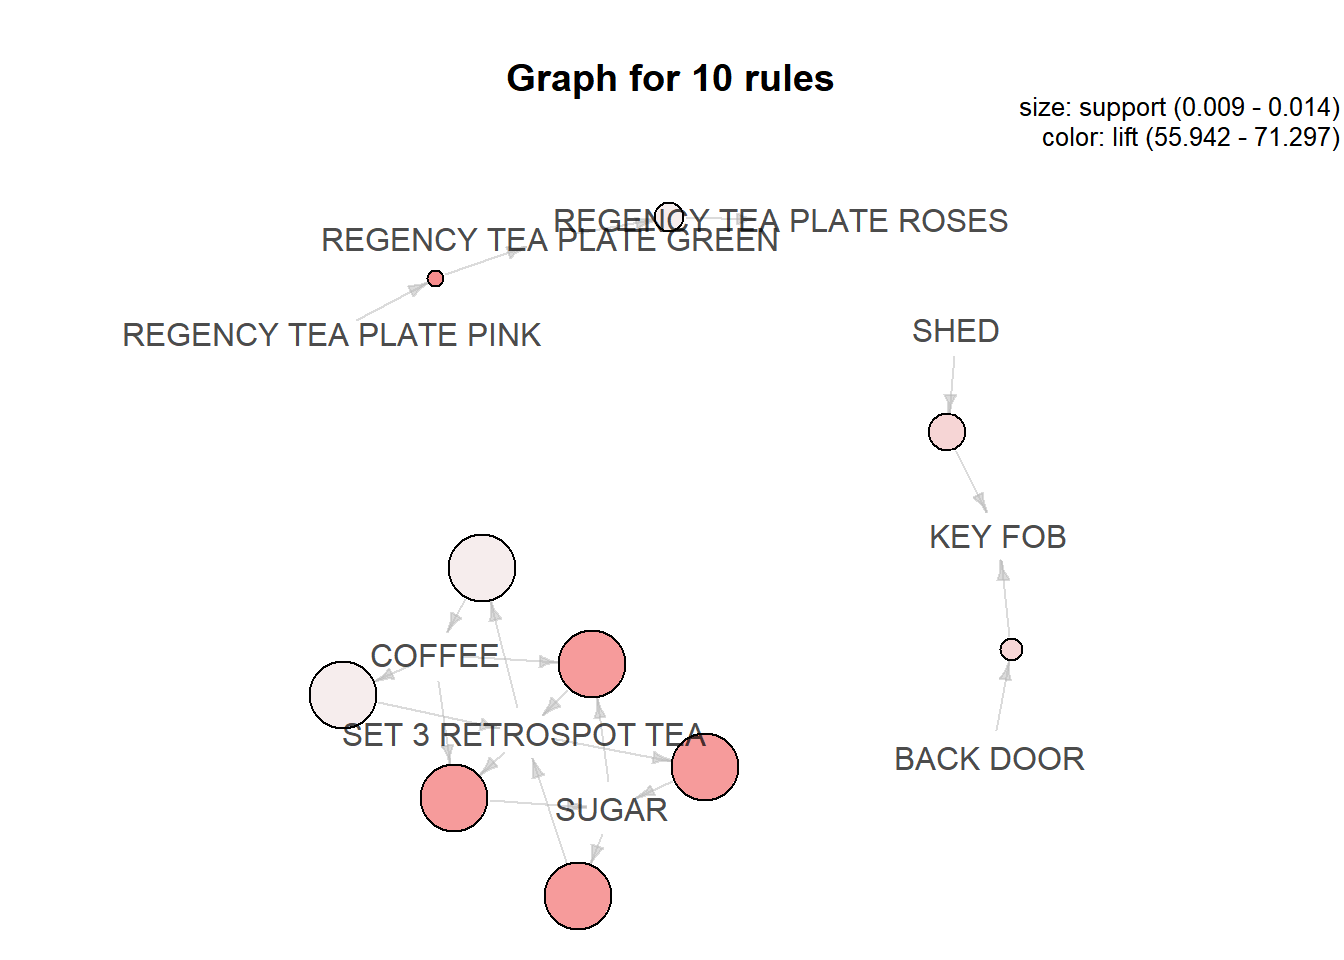
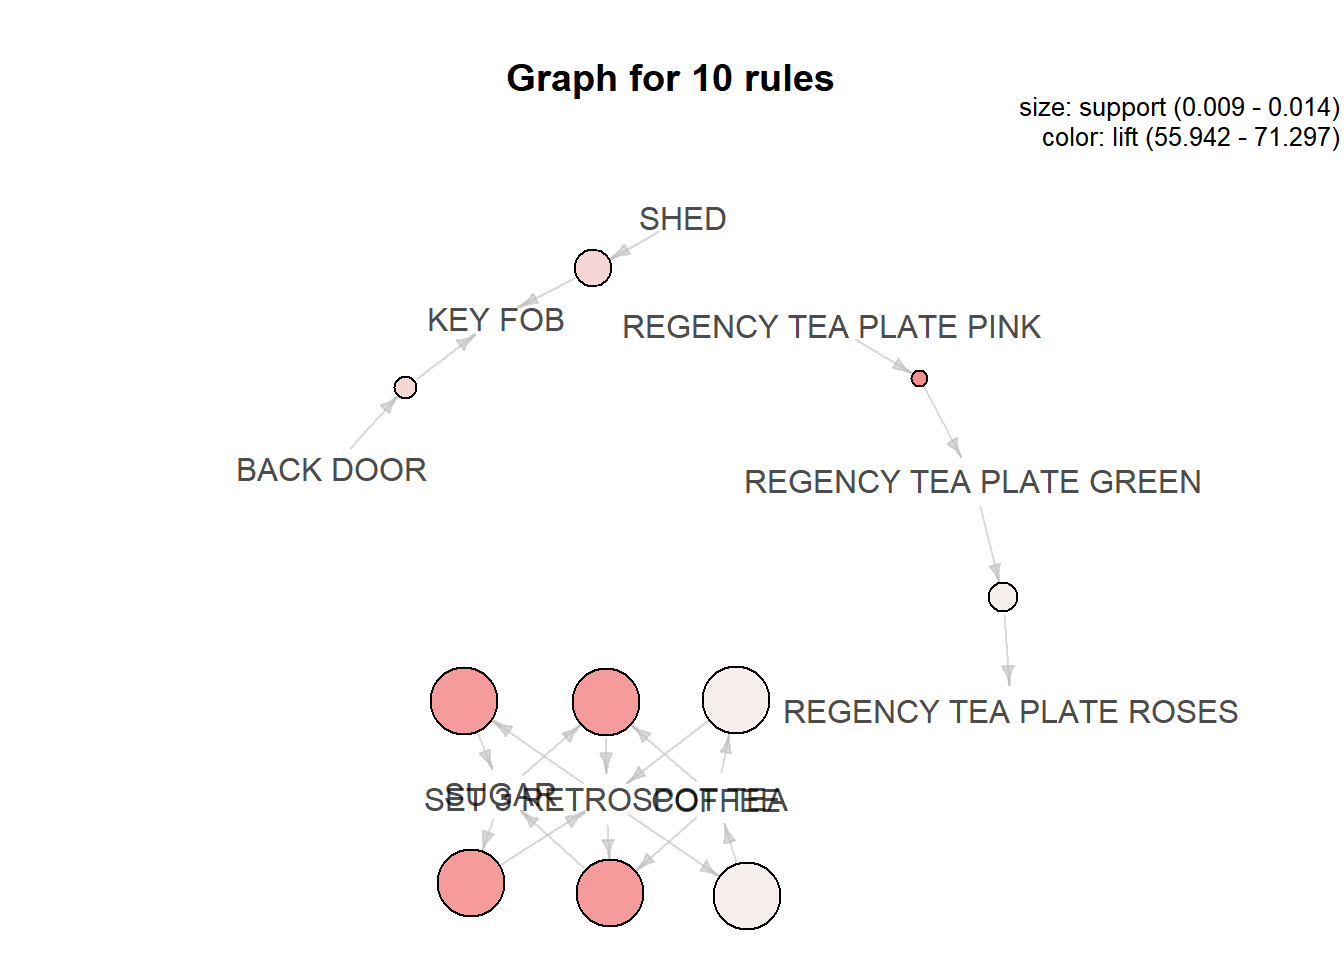
fix image path

diff --git a/content/post/2019-05-02-mba.html b/content/post/2019-05-02-mba.html
@@ -13,10 +13,10 @@ tags:
 
 
 
-<p><img src="J:/R/blog_research/mba/img/mba_meme.jpg" width="60%" style="display: block; margin: auto;" /></p>
+<p><img src="/img/mba_meme.jpg" width="80%" style="display: block; margin: auto;" /></p>
 <div id="introduction" class="section level2">
 <h2>Introduction</h2>
-<p><img src="img/mba_intro.png" width="100%" style="display: block; margin: auto;" /></p>
+<p><img src="/img/mba_intro.png" width="80%" style="display: block; margin: auto;" /></p>
 <p>Ever wondered why items are displayed in a particular way in retail/online
 stores. Why certain items are suggested to you based on what you have added to
 the cart? Blame it on market basket analysis or association rule mining.</p>
@@ -32,7 +32,7 @@ the cart? Blame it on market basket analysis or association rule mining.</p>
 </div>
 <div id="what" class="section level2">
 <h2>What?</h2>
-<p><img src="img/mba_what.png" width="100%" style="display: block; margin: auto;" /></p>
+<p><img src="/img/mba_what.png" width="80%" style="display: block; margin: auto;" /></p>
 <p>Market basket analysis uses association rule mining under the hood to identify
 products frequently bought together. Before we get into the nitty gritty of
 market basket analysis, let us get a basic understanding of association rule
@@ -47,7 +47,7 @@ and the set is the transaction. In short, market basket analysis</p>
 </div>
 <div id="why" class="section level2">
 <h2>Why ?</h2>
-<p><img src="img/mba_why.png" width="100%" style="display: block; margin: auto;" /></p>
+<p><img src="/img/mba_why.png" width="80%" style="display: block; margin: auto;" /></p>
 <p>Market basket analysis creates actionable insights for:</p>
 <ul>
 <li>designing store layout</li>
@@ -59,7 +59,7 @@ and the set is the transaction. In short, market basket analysis</p>
 </div>
 <div id="advantages" class="section level2">
 <h2>Advantages</h2>
-<p><img src="img/mba_advantages.png" width="100%" style="display: block; margin: auto;" /></p>
+<p><img src="/img/mba_advantages.png" width="80%" style="display: block; margin: auto;" /></p>
 <p>Market basket analysisis is <strong>cost effective</strong> as data required is readily
 available through electronic point of sale systems. It generates
 <strong>actionable insights</strong> for product placement, cross/up selling strategies,
@@ -68,7 +68,7 @@ inventory control etc.</p>
 </div>
 <div id="use-cases" class="section level2">
 <h2>Use Cases</h2>
-<p><img src="img/mba_use_cases.png" width="100%" style="display: block; margin: auto;" /></p>
+<p><img src="/img/mba_use_cases.png" width="80%" style="display: block; margin: auto;" /></p>
 <p>Association rule mining has applications in several industries including
 retail, telecommunications, banking, insurance, manufacturing and medical.
 Let us look at its applications in more detail in the following industries:</p>
@@ -108,12 +108,12 @@ providers. The more services a customer uses from a particular operator, the
 harder it gets for him/her to switch to another operator. Market basket
 analysis is used to bundle mobile, landline, TV and internet services to
 customers to increase stickiness and reduce churn.</p>
-<p><a href="https://www.rsquaredacademy.com/" target="_blank"><img src="img/ad.png" width="100%" alt="course ad" style="text-decoration: none;"></a></p>
+<p><a href="https://www.rsquaredacademy.com/" target="_blank"><img src="/img/ad.png" width="100%" alt="course ad" style="text-decoration: none;"></a></p>
 </div>
 </div>
 <div id="simple-example" class="section level2">
 <h2>Simple Example</h2>
-<p><img src="img/mba_items_description.png" width="100%" style="display: block; margin: auto;" /></p>
+<p><img src="/img/mba_items_description.png" width="80%" style="display: block; margin: auto;" /></p>
 <p>Before we move on to the case study, let us use a simple example to understand
 the important terminologies that we will come across in the rest of the
 tutorial. In the example, the transactions include the following products:</p>
@@ -131,7 +131,7 @@ tutorial. In the example, the transactions include the following products:</p>
 </div>
 <div id="steps" class="section level2">
 <h2>Steps</h2>
-<p><img src="img/mba_steps.png" width="100%" style="display: block; margin: auto;" /></p>
+<p><img src="/img/mba_steps.png" width="80%" style="display: block; margin: auto;" /></p>
 <p>The two important steps in market basket analysis are:</p>
 <ul>
 <li>frequent itemset generation</li>
@@ -141,21 +141,21 @@ tutorial. In the example, the transactions include the following products:</p>
 </div>
 <div id="itemset" class="section level2">
 <h2>Itemset</h2>
-<p><img src="img/mba_itemset.png" width="100%" style="display: block; margin: auto;" /></p>
+<p><img src="/img/mba_itemset.png" width="80%" style="display: block; margin: auto;" /></p>
 <p>Itemset is the collection of items purchased by a customer. In our example,
 mobile phone and screen guard are a frequent intemset. They are present in
 3 out of 5 transactions.</p>
 </div>
 <div id="antecedent-consequent" class="section level2">
 <h2>Antecedent &amp; Consequent</h2>
-<p><img src="img/mba_antecedent_consequent.png" width="100%" style="display: block; margin: auto;" /></p>
+<p><img src="/img/mba_antecedent_consequent.png" width="80%" style="display: block; margin: auto;" /></p>
 <p>Antecedent is the items of the left hand side of the rule and consequent is
 the right hand side of the rule. In our example, mobile phone is the antecedent
 and screen guard is the consequent.</p>
 </div>
 <div id="support" class="section level2">
 <h2>Support</h2>
-<p><img src="img/mba_support.png" width="100%" style="display: block; margin: auto;" /></p>
+<p><img src="/img/mba_support.png" width="80%" style="display: block; margin: auto;" /></p>
 <p>Support is the probability of the antecedent event occuring. It is the relative
 frequency of the itemset. If it is less than 50% then the association is
 considered less fruitful. In our example, support is the relative frequency of
@@ -163,7 +163,7 @@ transactions that include both mobile phone and screen guard.</p>
 </div>
 <div id="confidence" class="section level2">
 <h2>Confidence</h2>
-<p><img src="img/mba_confidence.png" width="100%" style="display: block; margin: auto;" /></p>
+<p><img src="/img/mba_confidence.png" width="80%" style="display: block; margin: auto;" /></p>
 <p>Confidence is the probability the consequent will co-occur with the antecedent.
 It expresses the operational efficiency of the rule. In our example, it is the
 probability that a customer will purchase screen guard provided that he has
@@ -171,7 +171,7 @@ already bought the mobile phone.</p>
 </div>
 <div id="lift" class="section level2">
 <h2>Lift</h2>
-<p><img src="img/mba_lift.png" width="100%" style="display: block; margin: auto;" /></p>
+<p><img src="/img/mba_lift.png" width="80%" style="display: block; margin: auto;" /></p>
 <p>The lift ratio calculates the efficiency of the rule in finding consequences,
 compared to a random selection of transactions. Generally, a Lift ratio of
 greater than one suggests some applicability of the rule.To compute the lift
@@ -190,7 +190,7 @@ phone and screen guard (i.e., mobile phone and screen guard occur together
 less often than random)</li>
 </ul>
 <p>
-<a href="https://www.youtube.com/user/rsquaredin/" target="_blank"><img src="img/ad_youtube.png" width="100%" alt="youtube ad" style="text-decoration: none;"></a>
+<a href="https://www.youtube.com/user/rsquaredin/" target="_blank"><img src="/img/ad_youtube.png" width="100%" alt="youtube ad" style="text-decoration: none;"></a>
 </p>
 </div>
 </div>
@@ -241,7 +241,7 @@ library(ggplot2)</code></pre>
 </div>
 <div id="preprocessing" class="section level2">
 <h2>Preprocessing</h2>
-<p><img src="J:/R/blog_research/mba/img/mba_pre_process.png" width="100%" style="display: block; margin: auto;" /></p>
+<p><img src="/img/mba_pre_process.png" width="80%" style="display: block; margin: auto;" /></p>
 <p>As shown above, the data set has one row per item. We will use
 <code>mbar_prep_data()</code> from the mbar package to reshape the data so that there is
 one row per transaction with items across columns exclusing the column names.</p>
@@ -486,7 +486,7 @@ absolute/relative frequency of the items.</p>
 plotted.</p>
 <pre class="r"><code>itemFrequencyPlot(basket_data, topN = 10, type = &#39;relative&#39;)</code></pre>
 <p><img src="/post/2019-05-02-mba_files/figure-html/plot_freq_relative-1.png" width="672" style="display: block; margin: auto;" /></p>
-<p><a href="https://apps.rsquaredacademy.com/" target="_blank"><img src="img/ad_apps.png" width="100%" alt="apps ad" style="text-decoration: none;"></a></p>
+<p><a href="https://apps.rsquaredacademy.com/" target="_blank"><img src="/img/ad_apps.png" width="100%" alt="apps ad" style="text-decoration: none;"></a></p>
 </div>
 <div id="generate-rules" class="section level2">
 <h2>Generate Rules</h2>
@@ -531,16 +531,16 @@ time and the process will eventually run out of memory.</p>
 ## Absolute minimum support count: 233 
 ## 
 ## set item appearances ...[0 item(s)] done [0.00s].
-## set transactions ...[10085 item(s), 25901 transaction(s)] done [1.39s].
+## set transactions ...[10085 item(s), 25901 transaction(s)] done [0.90s].
 ## sorting and recoding items ... [508 item(s)] done [0.03s].
-## creating transaction tree ... done [0.06s].
+## creating transaction tree ... done [0.05s].
 ## checking subsets of size 1 2 3 4</code></pre>
 <pre><code>## Warning in apriori(basket_data, parameter = list(supp = 0.009, conf =
 ## 0.8, : Mining stopped (maxlen reached). Only patterns up to a length of 4
 ## returned!</code></pre>
-<pre><code>##  done [0.12s].
-## writing ... [22 rule(s)] done [0.00s].
-## creating S4 object  ... done [0.03s].</code></pre>
+<pre><code>##  done [0.06s].
+## writing ... [22 rule(s)] done [0.02s].
+## creating S4 object  ... done [0.02s].</code></pre>
 <p>Change the values of <code>supp</code>, <code>conf</code> and <code>maxlen</code>, and observe how the rules
 generated change.</p>
 </div>
@@ -614,20 +614,20 @@ equally or even less predictive than a more general rule. A rule is more
 general if it has the same RHS but one or more items removed from the LHS.</p>
 <div id="example-1" class="section level4">
 <h4>Example 1</h4>
-<p><img src="J:/R/blog_research/mba/img/mba_redundant_rule_1.png" width="100%" style="display: block; margin: auto;" /></p>
+<p><img src="/img/mba_redundant_rule_1.png" width="80%" style="display: block; margin: auto;" /></p>
 <p>In the above example, the first rule has the same support, condifence and lift
 as the next two rules. The second item in the left hand side of the rule is not
 adding any value and as such makes the rule redundant.</p>
 </div>
 <div id="example-2" class="section level4">
 <h4>Example 2</h4>
-<p><img src="J:/R/blog_research/mba/img/mba_redundant_rule_2.png" width="100%" style="display: block; margin: auto;" /></p>
+<p><img src="/img/mba_redundant_rule_2.png" width="80%" style="display: block; margin: auto;" /></p>
 <p>In the above example, the first two rules have the same support, condifence and
 lift. The third rule differs only with respect to lift.</p>
 </div>
 <div id="example-3" class="section level4">
 <h4>Example 3</h4>
-<p><img src="J:/R/blog_research/mba/img/mba_redundant_rule_3.png" width="100%" style="display: block; margin: auto;" /></p>
+<p><img src="/img/mba_redundant_rule_3.png" width="80%" style="display: block; margin: auto;" /></p>
 <p>In the above example, the first and third rule have the same support,
 condifence and lift. The second rule is different with respect to confidence
 and lift.</p>
@@ -723,10 +723,10 @@ sugar can appear on the left hand side of the rule by default.</p>
 ## Absolute minimum support count: 233 
 ## 
 ## set item appearances ...[1 item(s)] done [0.00s].
-## set transactions ...[10085 item(s), 25901 transaction(s)] done [1.24s].
+## set transactions ...[10085 item(s), 25901 transaction(s)] done [1.41s].
 ## sorting and recoding items ... [508 item(s)] done [0.03s].
 ## creating transaction tree ... done [0.06s].
-## checking subsets of size 1 2 3 4 done [0.11s].
+## checking subsets of size 1 2 3 4 done [0.09s].
 ## writing ... [3 rule(s)] done [0.00s].
 ## creating S4 object  ... done [0.03s].</code></pre>
 <pre class="r"><code>rules_sugar &lt;- sort(sugar_rules, by = &quot;confidence&quot;, decreasing = TRUE)
@@ -775,12 +775,12 @@ hand side of the rule by default.</p>
 ## Absolute minimum support count: 233 
 ## 
 ## set item appearances ...[1 item(s)] done [0.00s].
-## set transactions ...[10085 item(s), 25901 transaction(s)] done [1.19s].
+## set transactions ...[10085 item(s), 25901 transaction(s)] done [1.29s].
 ## sorting and recoding items ... [508 item(s)] done [0.03s].
-## creating transaction tree ... done [0.05s].
+## creating transaction tree ... done [0.06s].
 ## checking subsets of size 1 2 done [0.02s].
 ## writing ... [2 rule(s)] done [0.00s].
-## creating S4 object  ... done [0.02s].</code></pre>
+## creating S4 object  ... done [0.03s].</code></pre>
 <pre class="r"><code>rules_sugar &lt;- sort(sugar_rules, by = &quot;confidence&quot;, decreasing = TRUE)
 inspect(rules_sugar)</code></pre>
 <pre><code>##     lhs        rhs                   support    confidence lift     count
@@ -858,7 +858,7 @@ inspect(top_rules)</code></pre>
 ## [8]  {REGENCY TEA PLATE GREEN} =&gt; {REGENCY TEA PLATE ROSES} 0.010347091  0.8322981 55.99313   268
 ## [9]  {SET 3 RETROSPOT TEA}     =&gt; {COFFEE}                  0.014362380  1.0000000 55.94168   372
 ## [10] {COFFEE}                  =&gt; {SET 3 RETROSPOT TEA}     0.014362380  0.8034557 55.94168   372</code></pre>
-<p><a href="https://pkgs.rsquaredacademy.com/" target="_blank"><img src="img/ad_packages.png" width="100%" alt="packages ad" style="text-decoration: none;"></a></p>
+<p><a href="https://pkgs.rsquaredacademy.com/" target="_blank"><img src="/img/ad_packages.png" width="100%" alt="packages ad" style="text-decoration: none;"></a></p>
 </div>
 </div>
 <div id="visualization" class="section level2">
@@ -897,7 +897,7 @@ the lift is same for both the following rules:</p>
 <li>{Screen Guard} =&gt; {Mobile Phone}</li>
 </ul>
 <p>It is clear that the lift is the same irrespective of the direction of the rule.</p>
-<p><img src="J:/R/blog_research/mba/img/mba_lift_warning_final.png" width="100%" style="display: block; margin: auto;" /></p>
+<p><img src="/img/mba_lift_warning_final.png" width="80%" style="display: block; margin: auto;" /></p>
 </div>
 <div id="confidence-as-a-measure-can-be-misleading" class="section level4">
 <h4>Confidence as a measure can be misleading</h4>
@@ -907,12 +907,12 @@ the lift is same for both the following rules:</p>
 a mobile phone to a customer who is purchasing a screen guard. It is important
 to ensure that we do not use rules just because they have high confidence
 associated with them.</p>
-<p><img src="J:/R/blog_research/mba/img/mba_conf_warn_final.png" width="100%" style="display: block; margin: auto;" /></p>
+<p><img src="/img/mba_conf_warn_final.png" width="80%" style="display: block; margin: auto;" /></p>
 </div>
 </div>
 <div id="summary" class="section level2">
 <h2>Summary</h2>
-<p><img src="J:/R/blog_research/mba/img/mba_summary_meme.jpg" width="60%" style="display: block; margin: auto;" /></p>
+<p><img src="/img/mba_summary_meme.jpg" width="80%" style="display: block; margin: auto;" /></p>
 <ul>
 <li>unsupervised data mining technique</li>
 <li>uncovers products frequently bought together</li>
